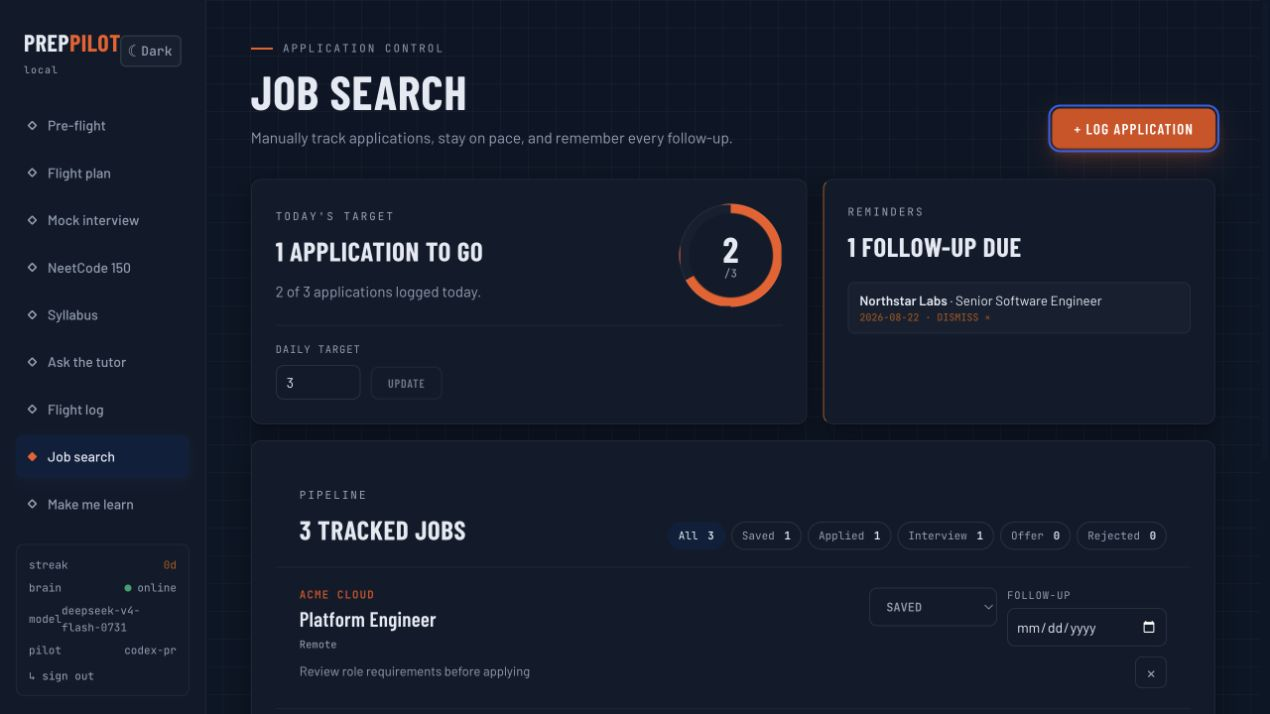
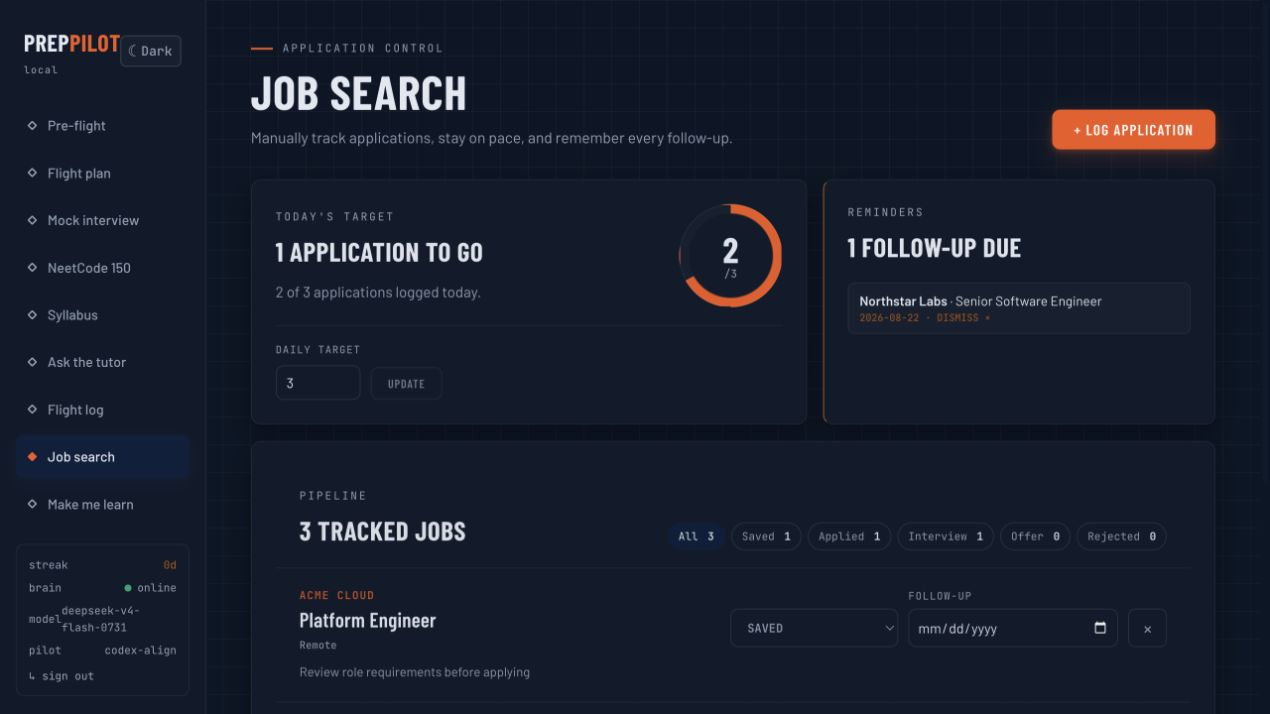
fix: align job row controls

diff --git a/frontend/src/styles.css b/frontend/src/styles.css
@@ -295,7 +295,7 @@
 .job-filters button.on { background: var(--filter-active-bg); border-color: var(--filter-active-bg); color: var(--filter-active-fg); }
 .job-filters button.on b { color: inherit; }
 .job-list { display: grid; }
-.job-row { display: grid; grid-template-columns: minmax(0, 1fr) minmax(230px, 300px); gap: 24px; padding: 20px 24px; border-bottom: 1px solid var(--hairline-soft); }
+.job-row { display: grid; grid-template-columns: minmax(0, 1fr) minmax(330px, 440px); gap: 24px; padding: 20px 24px; border-bottom: 1px solid var(--hairline-soft); }
 .job-row:last-child { border-bottom: 0; }
 .job-row:hover { background: var(--paper-2); }
 .job-company { color: var(--course-deep); font: 600 11px var(--mono); letter-spacing: .09em; text-transform: uppercase; }
@@ -305,7 +305,7 @@
 .job-meta span { color: var(--faint); font: 10.5px var(--mono); padding-right: 8px; border-right: 1px solid var(--hairline); }
 .job-meta span:last-child { border-right: 0; }
 .job-meta .late { color: var(--caution); font-weight: 600; }
-.job-controls { display: grid; grid-template-columns: 1fr 1.25fr; gap: 10px; align-content: start; }
+.job-controls { display: grid; grid-template-columns: minmax(110px, 1fr) minmax(150px, 1.25fr) auto; gap: 10px; align-items: end; align-content: start; }
 .job-status { font: 600 12px var(--mono); text-transform: uppercase; height: 39px; }
 .status-saved { color: var(--muted); }
 .status-applied { color: var(--data); }
@@ -314,9 +314,9 @@
 .status-rejected, .status-withdrawn { color: var(--faint); }
 .job-controls > label { gap: 4px; }
 .job-controls input { padding: 7px 8px; height: 39px; }
-.job-actions { grid-column: 1 / -1; display: flex; justify-content: flex-end; align-items: center; gap: 8px; }
-.job-actions .btn { padding: 7px 12px; font-size: 11px; text-decoration: none; }
-.job-delete { width: 32px; height: 32px; border: 1px solid var(--hairline); border-radius: 7px; background: transparent; color: var(--faint); font-size: 20px; }
+.job-actions { display: flex; justify-content: flex-start; align-items: center; gap: 8px; min-height: 39px; }
+.job-actions .btn { height: 39px; display: inline-flex; align-items: center; padding: 7px 12px; font-size: 11px; text-decoration: none; white-space: nowrap; }
+.job-delete { width: 39px; height: 39px; flex: 0 0 39px; border: 1px solid var(--hairline); border-radius: 7px; background: transparent; color: var(--faint); font-size: 20px; }
 .job-delete:hover { border-color: var(--warn); color: var(--warn); background: var(--red-tint); }
 .jobs-empty { padding: 58px 24px; text-align: center; color: var(--muted); }
 .jobs-empty > span { display: block; color: var(--faint); font-size: 30px; }
